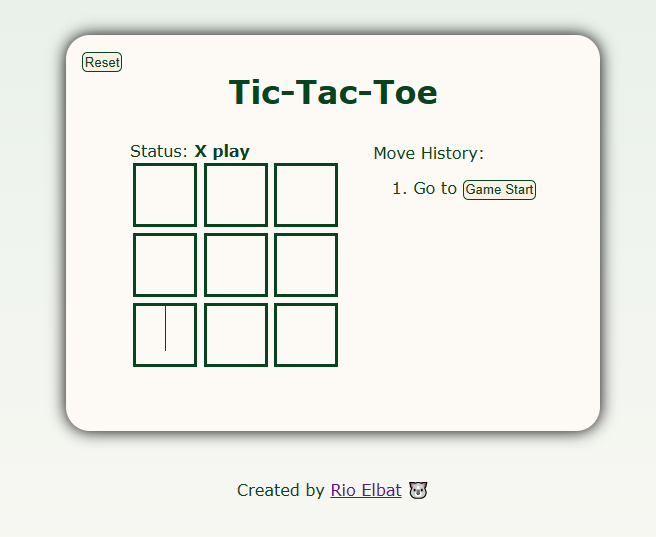
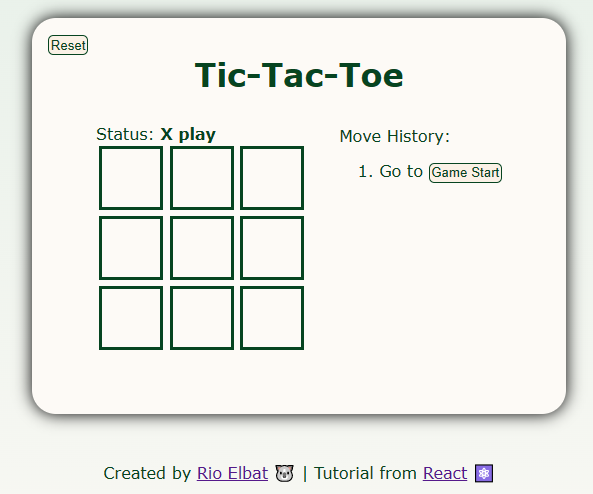
add learning source link and update preview image ⚛

diff --git a/index.html b/index.html
@@ -20,7 +20,9 @@
   <body>
     <div id="root"></div>
     <p class="credit">
-      Created by <a href="https://rioelbat.github.io/" target="_blank">Rio Elbat</a> 🐨
+      Created by <a href="https://rioelbat.github.io/" target="_blank">Rio Elbat</a> 🐨 | Tutorial
+      from
+      <a href="https://beta.reactjs.org/learn/tutorial-tic-tac-toe#adding-time-travel">React</a> ⚛
     </p>
     <script type="module" src="/src/main.jsx"></script>
   </body>
